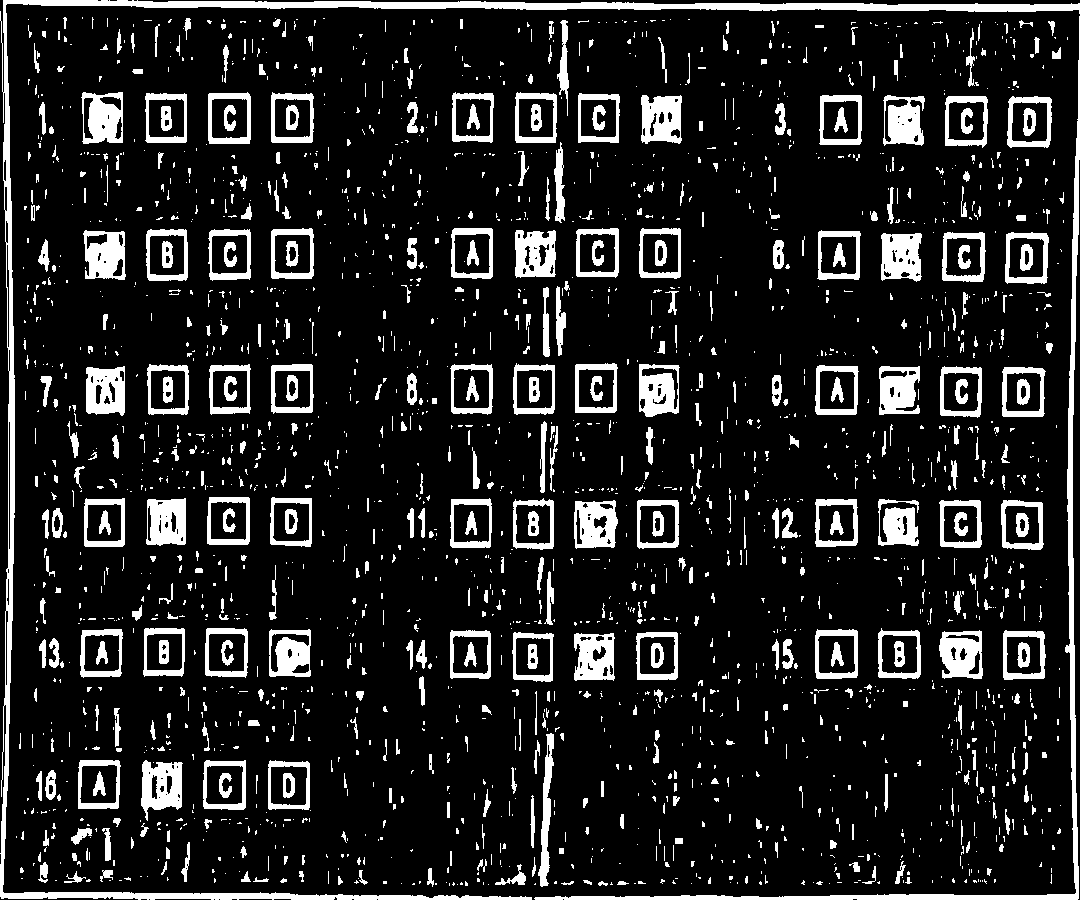
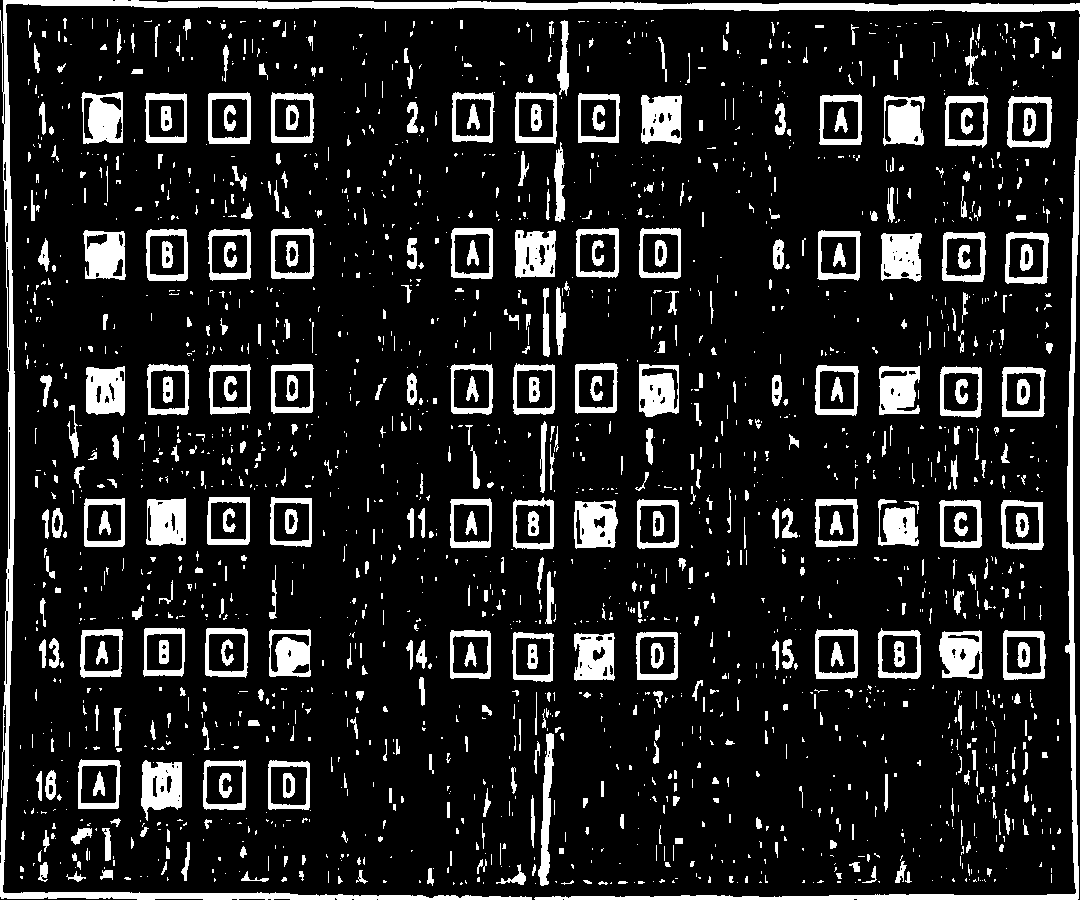
0013有些地方没有闭合，少一个

diff --git a/answer-sheet-scan/sheet.py b/answer-sheet-scan/sheet.py
@@ -42,7 +42,7 @@ def get_choice_area(areas):
     for array in segments:
         if len(array) > len(temp) or len(temp)> 250:#小于250
             temp = array
-    return temp[0]-50,temp[-1]+50
+    return temp[0]-60,temp[-1]+60
 
 
 
@@ -102,7 +102,7 @@ def get_answer_from_sheet(base_img):
     #ret, choice_img = cv2.threshold(processed_img,0,255,cv2.THRESH_BINARY_INV+cv2.THRESH_OTSU)#新方法
     #choice_img = cv2.dilate(processed_img, settings.CHOICE_IMG_KERNEL, iterations=settings.CHOICE_IMG_DILATE_ITERATIONS)
     choice_img = cv2.erode(processed_img, settings.CHOICE_IMG_KERNEL, iterations=settings.CHOICE_IMG_ERODE_ITERATIONS)
-    choice_img = cv2.adaptiveThreshold(processed_img,255,cv2.ADAPTIVE_THRESH_MEAN_C,cv2.THRESH_BINARY_INV,21,2)
+    choice_img = cv2.adaptiveThreshold(processed_img,255,cv2.ADAPTIVE_THRESH_MEAN_C,cv2.THRESH_BINARY_INV,23,2)
     #choice_img = cv2.morphologyEx(choice_img,cv2.MORPH_GRADIENT,settings.ANS_IMG_KERNEL)
    
     cv2.imwrite(obj_dir+"/"+'choice_area.png', choice_img)
@@ -124,7 +124,7 @@ def get_answer_from_sheet(base_img):
         if CHOICE_MIN_AREA < cnts_areas[i]< CHOICE_MAX_AREA \
             and ((w/h<=1 and h/w <2) or (w/h>1 and w/h <2)):
             question_cnts.append(c)
-        print "%d %d" %(w,h)
+            print "%d %d" %(w,h)
             
         
     cv2.drawContours(wait_draw, question_cnts, -1, (0, 0, 255), 1)

diff --git a/answer-sheet-scan/settings.py b/answer-sheet-scan/settings.py
@@ -42,10 +42,10 @@ CHOICE_IMG_THRESHOLD = (100, 300)
 CHOICE_IMG_DILATE_ITERATIONS = 2
 
 # 识别所有选项框区域时的腐蚀参数
-CHOICE_IMG_ERODE_ITERATIONS = 4
+CHOICE_IMG_ERODE_ITERATIONS = 6
 
 # 识别所有选项框区域时的膨胀腐蚀的kernel
-CHOICE_IMG_KERNEL = np.ones((4, 4), np.uint8)
+CHOICE_IMG_KERNEL = np.ones((10, 10), np.uint8)
 
 # 选项框面积的阈值，超过则认为这个轮廓不是选项框
 CHOICE_MAX_AREA = 6000
@@ -54,7 +54,7 @@ CHOICE_MAX_AREA = 6000
 CHOICE_MIN_AREA = 4500
 
 # 总共选项框 + 题号的个数，例如一行3题，总共20列，所以有3 * 20 * 4 + 3 * 20
-CHOICE_CNT_COUNT = 64
+CHOICE_CNT_COUNT = 68
 
 # 调整亮度的竖向分块数目
 PROCESS_BRIGHT_COLS = 18

diff --git a/answer-sheet-scan/test_sheet.py b/answer-sheet-scan/test_sheet.py
@@ -5,7 +5,7 @@ import time
 
 start = time.clock()
 
-image_name = "0010.jpg"; ##0006 0007 
+image_name = "0013.jpg"; ##0006 0007 
 
 get_answer_from_sheet("img/new/"+image_name);
 end = time.clock()
